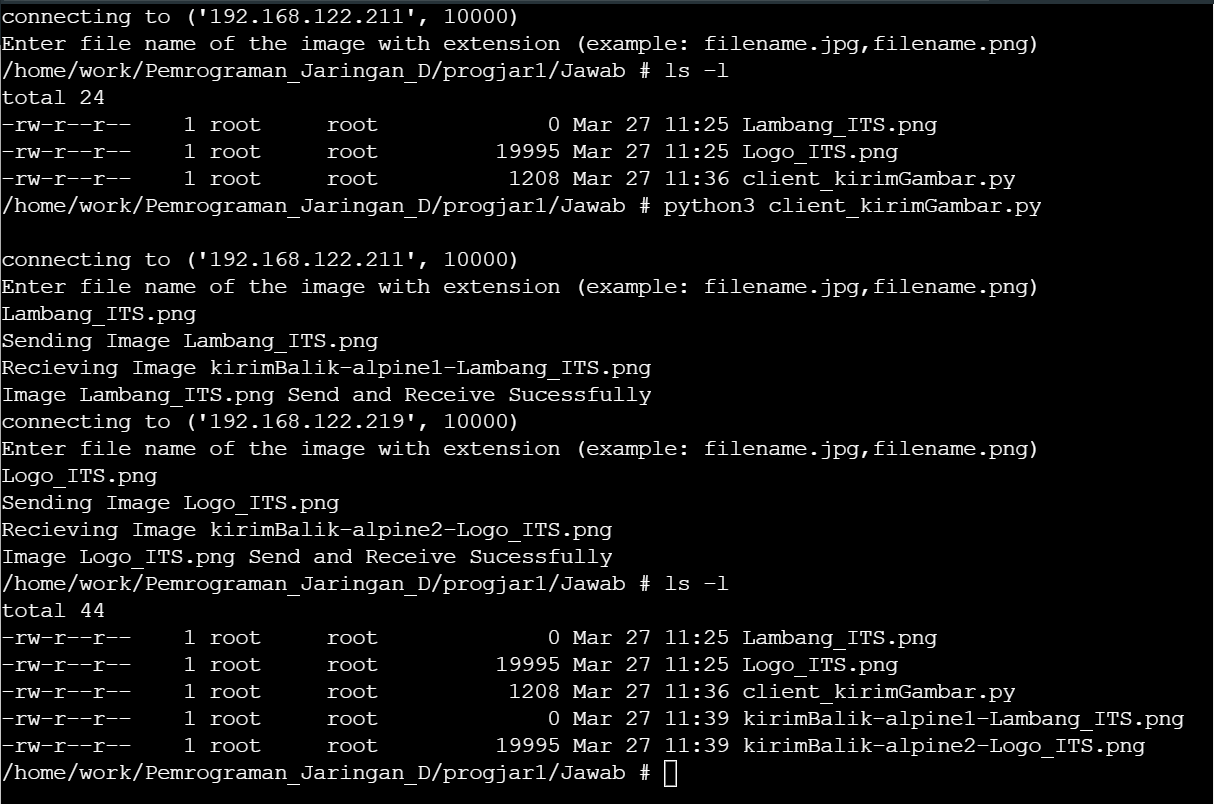
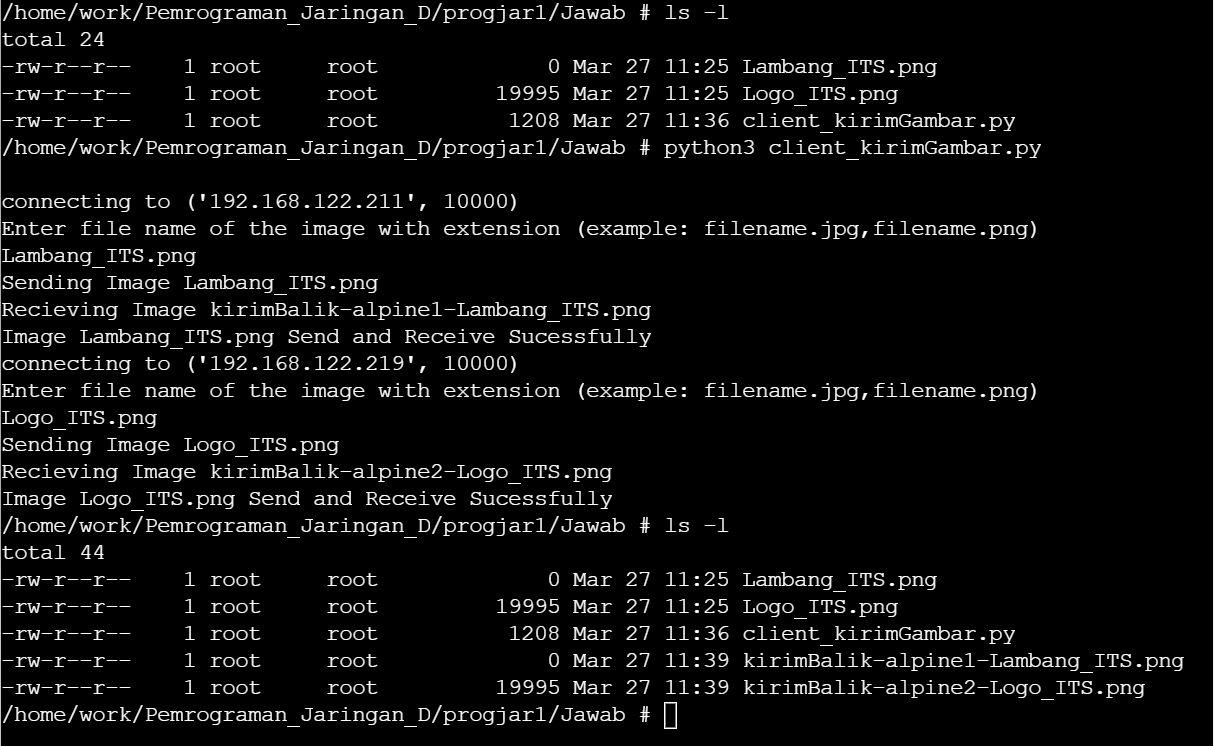
New Sixth Commit - Finishing Send Image

Changed region(s): [[0.0, 0.0, 1.0, 0.9866]]

diff --git a/progjar1/Jawab/client_kirimString2MB.py b/progjar1/Jawab/client_kirimString2MB.py
@@ -1,5 +1,7 @@
 import sys
 import socket
+import random
+import string
 
 # Create a TCP/IP socket
 sock = socket.socket(socket.AF_INET, socket.SOCK_STREAM)
@@ -9,12 +11,16 @@ server_address = ('localhost', 10000)
 print(f"connecting to {server_address}")
 sock.connect(server_address)
 
-
 try:
     # Send data
-    message = 'INI ADALAH DATA YANG DIKIRIM ABCDEFGHIJKLMNOPQ'
+    # 1Mb = 1000kb
+    # 1Kb = 1000byte
+    # 1character = 1byte
+    # Conclusion : 2Mb = 2000000 Character
+    message = ''.join(random.choices(string.ascii_letters, k = 2000000))
     print(f"sending {message}")
     sock.sendall(message.encode())
+
     # Look for the response
     amount_received = 0
     amount_expected = len(message)

diff --git a/progjar1/Jawab/client_kirimGambar.py b/progjar1/Jawab/client_kirimGambar.py
@@ -1,7 +1,7 @@
 import sys
 import socket
 
-ip = ['192.168.122.111', '192.168.122.171']
+ip = ['192.168.122.211', '192.168.122.219']
 
 for x in range(2):
     # Create a TCP/IP socket
